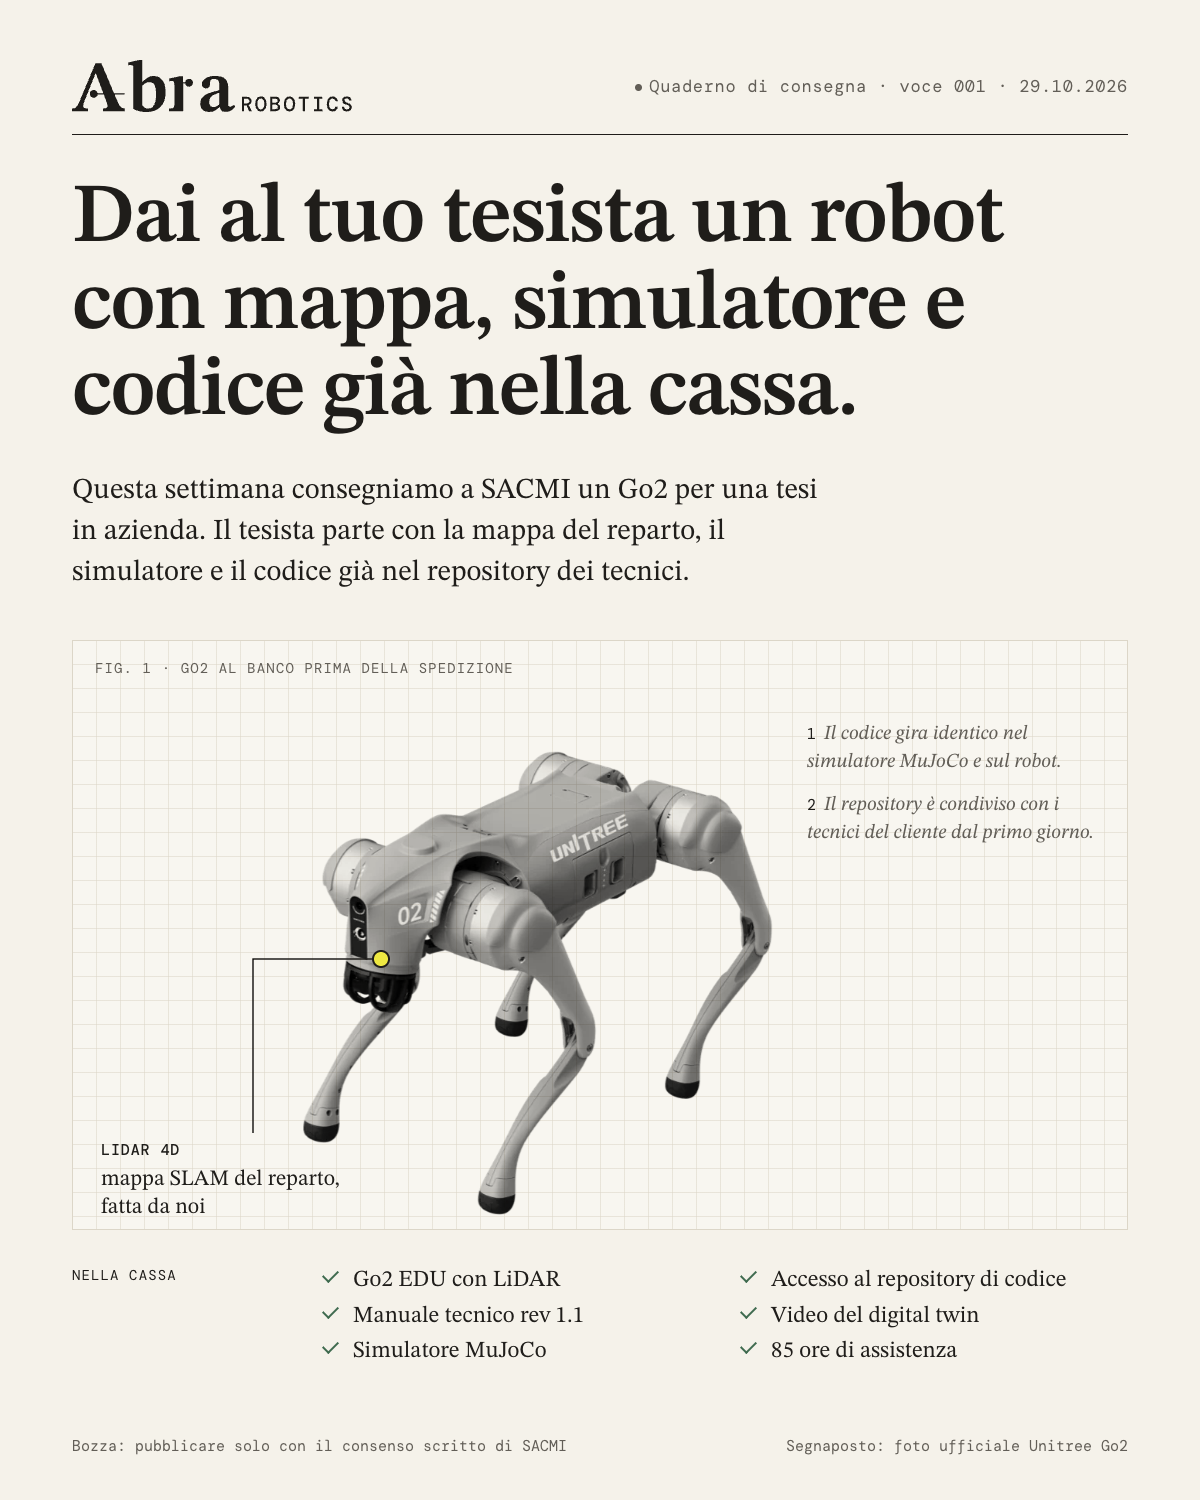
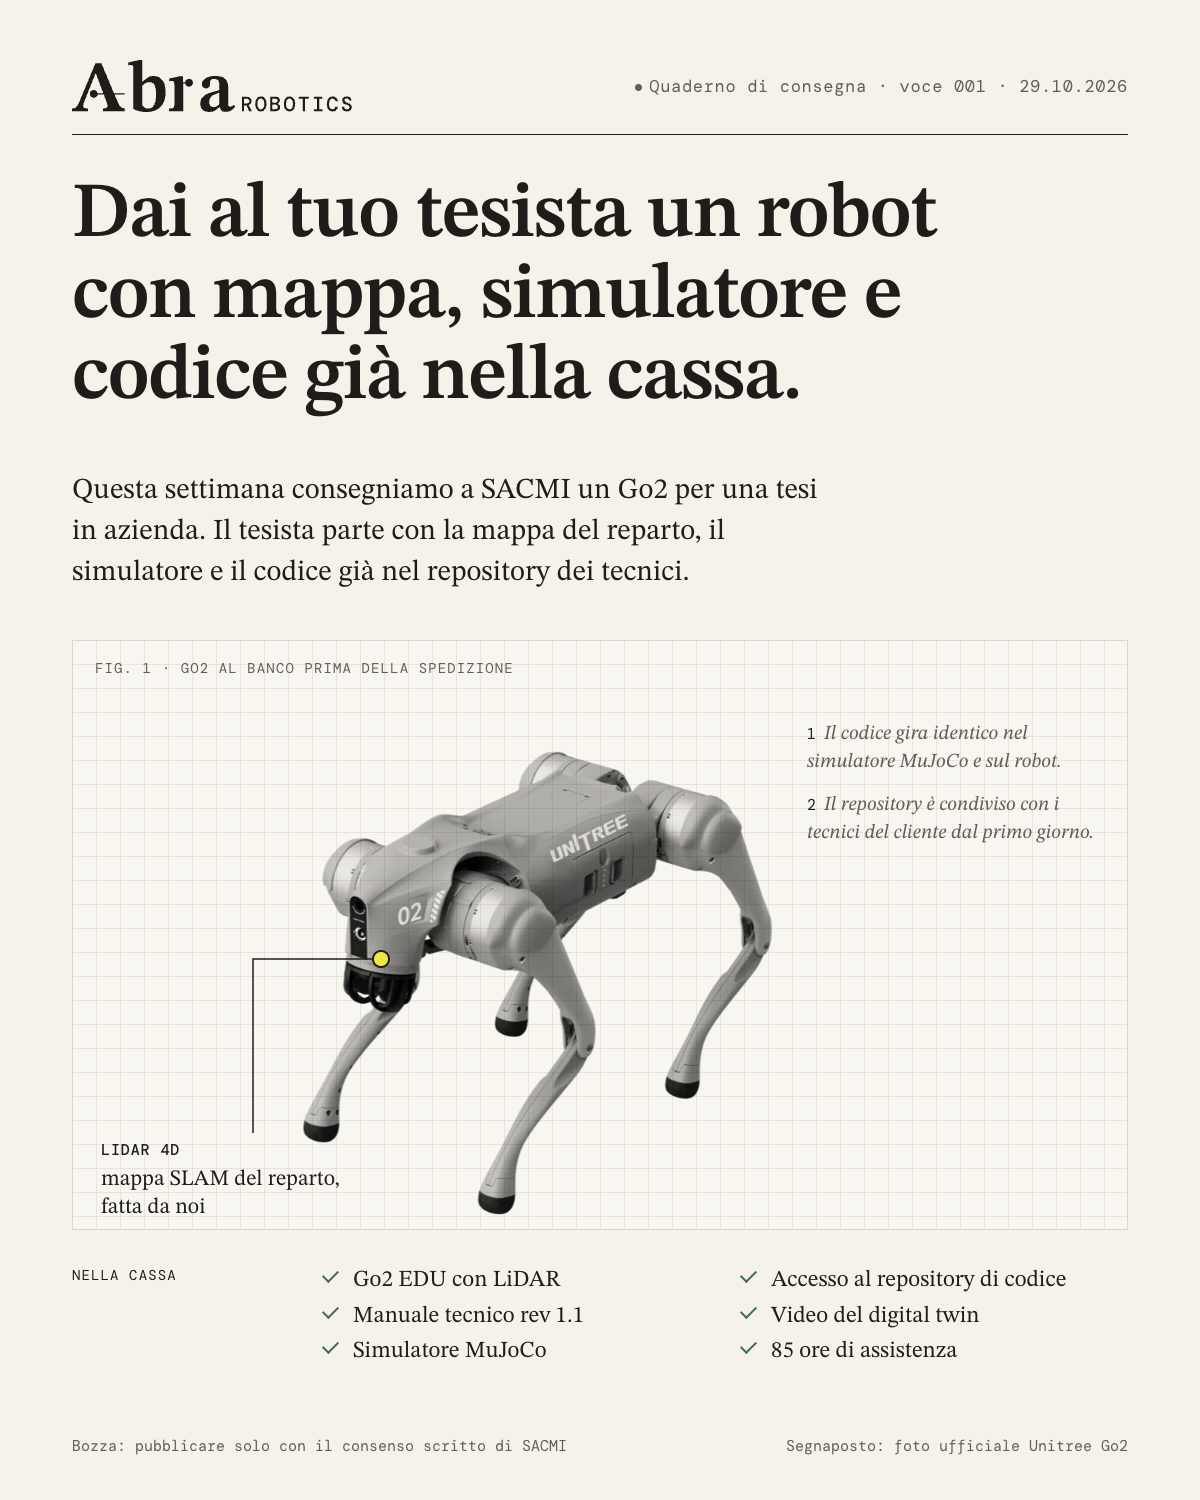
Brand: C v3.1 correzioni bloccanti

Changed region(s): [[0.0617, 0.1227, 0.8325, 0.3067]]

diff --git a/brand/02-directions/C-laboratorio/applicazioni/linkedin-sacmi-anonimo.html b/brand/02-directions/C-laboratorio/applicazioni/linkedin-sacmi-anonimo.html
@@ -9,7 +9,7 @@
   .testa { position: absolute; left: 72px; right: 72px; top: 60px; display: flex; justify-content: space-between; align-items: center; padding-bottom: 22px; border-bottom: 1.5px solid var(--inchiostro); }
   .testa img { height: 52px; }
   .testa .rev { font-size: 17px; }
-  h1 { position: absolute; left: 72px; top: 176px; width: 1000px; margin: 0; font-size: 84px; line-height: 1.03; font-weight: 600; letter-spacing: -0.018em; }
+  h1 { position: absolute; left: 72px; top: 176px; width: 1000px; margin: 0; font-size: 78px; line-height: 1.04; font-weight: 600; letter-spacing: -0.018em; }
   .lead { position: absolute; left: 72px; top: 470px; width: 760px; font-size: 29px; line-height: 1.42; margin: 0; }
   .banco { position: absolute; left: 72px; right: 72px; top: 640px; height: 590px; background: #F8F6F0; border: 1px solid var(--rigatura); background-image: linear-gradient(rgba(220,214,200,.55) 1px, transparent 1px), linear-gradient(90deg, rgba(220,214,200,.55) 1px, transparent 1px); background-size: 24px 24px; background-position: -1px -1px; }
   .banco img { position: absolute; left: 230px; top: 110px; width: 470px; filter: grayscale(1) contrast(1.05); mix-blend-mode: multiply; }
@@ -30,7 +30,7 @@
 <body>
 <div class="testa"><img src="../logo/orizzontale.svg" alt="Abra Robotics"><span class="rev">Quaderno di consegna · voce 001</span></div>
 
-<h1>Ricevi il robot con la mappa del reparto, il simulatore e il codice già pronti.</h1>
+<h1>Ricevi il robot con mappa, simulatore e codice già pronti.</h1>
 <p class="lead">Abbiamo consegnato un quadrupede a un'azienda manifatturiera. Chi lo usa parte con la mappa del reparto, il simulatore e il codice già nel repository.</p>
 
 <div class="banco">

diff --git a/brand/02-directions/C-laboratorio/applicazioni/linkedin-sacmi.html b/brand/02-directions/C-laboratorio/applicazioni/linkedin-sacmi.html
@@ -9,7 +9,7 @@
   .testa { position: absolute; left: 72px; right: 72px; top: 60px; display: flex; justify-content: space-between; align-items: center; padding-bottom: 22px; border-bottom: 1.5px solid var(--inchiostro); }
   .testa img { height: 52px; }
   .testa .rev { font-size: 17px; }
-  h1 { position: absolute; left: 72px; top: 176px; width: 1000px; margin: 0; font-size: 84px; line-height: 1.03; font-weight: 600; letter-spacing: -0.018em; }
+  h1 { position: absolute; left: 72px; top: 176px; width: 1000px; margin: 0; font-size: 78px; line-height: 1.04; font-weight: 600; letter-spacing: -0.018em; }
   .lead { position: absolute; left: 72px; top: 470px; width: 760px; font-size: 29px; line-height: 1.42; margin: 0; }
   .banco { position: absolute; left: 72px; right: 72px; top: 640px; height: 590px; background: #F8F6F0; border: 1px solid var(--rigatura); background-image: linear-gradient(rgba(220,214,200,.55) 1px, transparent 1px), linear-gradient(90deg, rgba(220,214,200,.55) 1px, transparent 1px); background-size: 24px 24px; background-position: -1px -1px; }
   .banco img { position: absolute; left: 230px; top: 110px; width: 470px; filter: grayscale(1) contrast(1.05); mix-blend-mode: multiply; }

diff --git a/brand/02-directions/C-laboratorio/applicazioni/biglietto.html b/brand/02-directions/C-laboratorio/applicazioni/biglietto.html
@@ -20,7 +20,7 @@
   .fronte .appunto .r { border-bottom: 2px solid var(--grafite-chiara); height: 50px; }
   .fronte .piede { position: absolute; left: 66px; right: 66px; bottom: 44px; display: flex; justify-content: space-between; font-family: var(--mono); font-size: 26px; color: var(--grafite); letter-spacing: .02em; border-top: 2px solid var(--inchiostro); padding-top: 12px; }
   .retro .sym { position: absolute; left: 80px; top: 200px; height: 260px; }
-  .retro .filo { position: absolute; left: 364px; top: 363.2px; width: 44px; height: 6.7px; background: var(--inchiostro); }
+  .retro .filo { position: absolute; left: 328px; top: 363.2px; width: 90px; height: 6.7px; background: var(--inchiostro); }
   .retro .t { position: absolute; left: 432px; top: 342px; width: 520px; font-size: 34px; line-height: 1.3; }
   .retro .t .mono { font-size: 26px; display: block; margin-top: 18px; }
   .misure { position: absolute; top: 810px; font-family: var(--mono); font-size: 16px; color: var(--grafite); }

diff --git a/brand/02-directions/C-laboratorio/changelog.md b/brand/02-directions/C-laboratorio/changelog.md
@@ -1,5 +1,21 @@
 # Changelog, direzione C "Nota a margine"
 
+## v3.1 · 30/10/2026
+
+Correzioni bloccanti di `03-reviews/finale.md` (sezione C) e nuova regola delle headline.
+
+| Modifica | In risposta a |
+|-|-|
+| Totem: titolo sull'offerta, "Noleggia il G1 per una giornata, con un tecnico Abra al tuo stand."; la fonte delle risposte scende alla seconda riga ("Ogni risposta cita la fonte che hai approvato.") | Finale C1 |
+| Totem: G1 a mezza figura portato alla stessa scala del totem, con quota 132 cm (continua nella parte visibile, tratteggiata in quella non mostrata) | Finale C2 |
+| Nuove versioni `logotipo-24-48.svg` e `orizzontale-24-48.svg` con filo raddoppiato (34 unità), usate nella barra del sito, nelle intestazioni dei preventivi e sul fronte del biglietto | Finale C3 |
+| Simbolo isolato (`simbolo.svg`, monogramma, favicon vettoriale): filo accorciato a 0,6 diametri del punto oltre la gamba destra, quindi dentro la grazia | Finale C3 |
+| `favicon-16.svg`: filo di 2 px per i primi 3 px dopo il punto | Finale C4 |
+| Evidenziatore: un solo Pantone, 395 C (3965 C scartato, più saturo e più verde). HEX `#EEE842` confermato fino alla prova colore; si riallinea se lo scarto supera dE 3. Dimensioni minime del simbolo in mm in `sistema-grafico.md` (6 mm in stampa, 10 mm come adesivo) | Finale C5 |
+| Retro del biglietto: "Leggi i numeri del robot sul tuo caso prima dell'investimento: codice e manuale restano a te." Il filo del richiamo prosegue fino al testo | Finale C6 |
+| Nuova regola delle headline: "Leggi" apre solo hero, copertina del preventivo e retro del biglietto. Post nominativo "Dai al tuo tesista un robot con mappa, simulatore e codice già nella cassa."; post anonimo "Ricevi il robot con mappa, simulatore e codice già pronti."; reel "Ascolta il G1 rispondere ai tuoi visitatori, con la fonte di ogni dato."; totem "Noleggia...". Nessuna coppia della serie apre con lo stesso verbo | Orchestratore, finale §6 |
+| `voce.md`, `sistema-grafico.md`, `palette.md`, `presentazione.html`, `logo/test.html` aggiornati; tutti i PNG rigenerati; controllo copy, glifi, corpi minimi e SVG ripassati senza errori | Orchestratore |
+
 ## v3.0 · 29/10/2026
 
 Risposta al round 2 (media 7,3; marchio 5,6) e alle indicazioni vincolanti di `03-reviews/round2-sintesi.md`.

diff --git a/brand/02-directions/C-laboratorio/voce.md b/brand/02-directions/C-laboratorio/voce.md
@@ -28,7 +28,7 @@ Regola: "Leggi", il verbo della direzione, apre al massimo l'hero, la copertina 
 2. Prelievo dei cartoni a fine linea: leggi fase per fase tempi, errori e costi misurati (copertina del preventivo)
 3. Leggi i numeri del robot sul tuo caso prima dell'investimento: codice e manuale restano a te. (retro del biglietto)
 4. Dai al tuo tesista un robot con mappa, simulatore e codice già nella cassa. (post LinkedIn nominativo)
-5. Ricevi il robot con la mappa del reparto, il simulatore e il codice già pronti. (post anonimo)
+5. Ricevi il robot con mappa, simulatore e codice già pronti. (post anonimo)
 6. Ascolta il G1 rispondere ai tuoi visitatori, con la fonte di ogni dato. (reel)
 7. Noleggia il G1 per una giornata, con un tecnico Abra al tuo stand. (totem; seconda riga: "Ogni risposta cita la fonte che hai approvato.")
 
